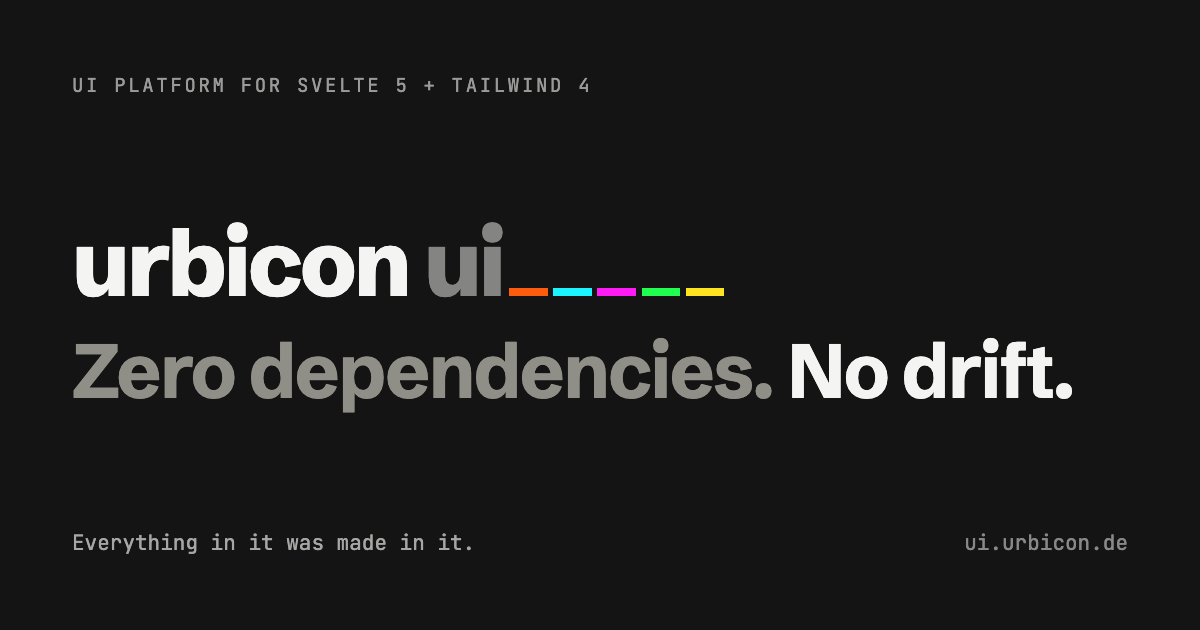
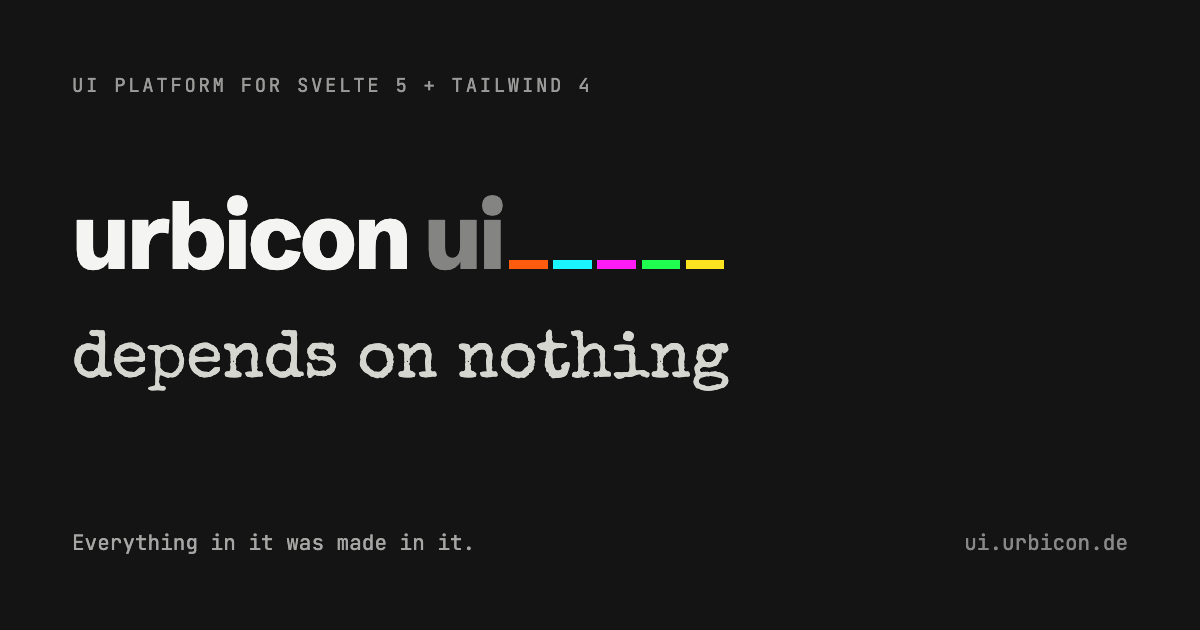
feat(docs-app): retype the landing claim as a typed remark
The name tile's claim changes words and voice: "Zero dependencies. No
drift." becomes "depends on nothing", typed in Special Elite instead of
set in the grotesk. Three typefaces on the tile, but as roles: the mono
brackets (eyebrow, proof) are the machine's meta voice, the grotesk is
the name, the typewriter is the human remark between them.

Tuning that came with it, on both surfaces (tile and og fixture):

- tone: the remark sits one step below the name (#d6d6d1), giving the
  tile a three-tone hierarchy instead of two competing whites
- size: the remark no longer spans the tile width; name:claim is ~1.4:1
  (it was 1.13:1, two equally loud lines)
- position: name + claim move from the geometric to the optical center
  (an exactly centered block reads as sunken)

The claim constants collapse into a single CLAIM; og.png and the four
README views are re-captured. New docs-app dependency:
@fontsource/special-elite (route-local import, landing + og only).

Changed region(s): [[0.0617, 0.5127, 0.8942, 0.6635], [0.0617, 0.3016, 0.6167, 0.4825]]

diff --git a/apps/docs/src/routes/+page.svelte b/apps/docs/src/routes/+page.svelte
@@ -52,7 +52,12 @@
   import { HOUSES as GROUP_HOUSES, GROUP_NAME, ROOM_TYPES } from '$lib/hotel-tools';
   import AgentReplay from '$lib/landing/AgentReplay.svelte';
   import LandingHeader from '$lib/landing/LandingHeader.svelte';
-  import { BRAND, BRAND_SUFFIX, CLAIM_LEAD, CLAIM_POINT, PROOF } from '$lib/landing/wordmark';
+  import { BRAND, BRAND_SUFFIX, CLAIM, PROOF } from '$lib/landing/wordmark';
+  // Die Schreibmaschine des Anspruchs — self-hosted wie Mono und Grotesk im
+  // Root-Layout (keine Drittanfragen, siehe /privacy), aber route-lokal
+  // importiert: außer der Namens-Kachel (und dem OG-Fixture) spricht niemand
+  // diese Schrift, also lädt sie auch nur hier.
+  import '@fontsource/special-elite/400.css';
   import { asset } from '$app/paths';
   import { REPO_URL } from '$lib/seo';
   import BookingCard from '$lib/hotel/BookingCard.svelte';
@@ -820,13 +825,14 @@
                 ></button>{/each}</span
             >
           </h1>
-          <!-- Der Anspruch trägt die Kachel: der zweite Satz ist das, was die
-               Aussage macht, also steht der erste zurück (Helligkeit, nicht
-               Farbe — die Striche bleiben die einzige Buntheit auf dieser
-               Fläche). Die erste Hälfte ist die Eintrittskarte (0 Deps hat
-               nicht nur diese Bibliothek), die zweite ist das Argument: dass
-               der Gate die Verwendung dort hält, wo sie hingehört. -->
-          <p class="claim">{CLAIM_LEAD} <strong>{CLAIM_POINT}</strong></p>
+          <!-- Der Anspruch wechselt die Stimme und tritt eine Tonstufe zurück:
+               getippt (Schreibmaschine) statt gesetzt, der menschliche Vermerk
+               zwischen den Maschinen-Klammern aus Mono (Eyebrow in der Leiste
+               darüber, Fußzeile darunter). Drei Töne tragen die Hierarchie —
+               der Name voll, der Vermerk eine Stufe darunter, die Klammern
+               gedämpft; die Striche bleiben die einzige Buntheit auf dieser
+               Fläche. -->
+          <p class="claim">{CLAIM}</p>
         </div>
         <p class="proof">{PROOF}</p>
       </div>
@@ -1655,18 +1661,24 @@
     flex-direction: column;
     gap: 2rem;
   }
-  /* Name + Anspruch sitzen mittig über der Fußzeile — die Kachel ist eine
-     Titelseite, keine Kopfzeile mit Anhang (Eyebrow: siehe LandingHeader). */
+  /* Name + Anspruch sitzen auf der OPTISCHEN Mitte, nicht der geometrischen —
+     die Kachel ist eine Titelseite, keine Kopfzeile mit Anhang (Eyebrow: siehe
+     LandingHeader). Exakt zentriert wirkte der Block gesunken; das Polster
+     hebt ihn in den oberen Bereich der Fläche und lässt die Leere unter ihm
+     als Absicht lesen (2026-08-14, gegen zwei Alternativen entschieden:
+     exakte Mitte mit Luft · Name im oberen Drittel mit abgesetztem Vermerk). */
   .name-mid {
     flex: 1;
     display: flex;
     flex-direction: column;
     justify-content: center;
+    padding-bottom: 16%;
   }
   /* Die Kachel ist 32vw breit, Name plus Signatur brauchen ~9em — mehr als
      ~2.9vw Schriftgrad passt nicht in eine Zeile, und ein Umbruch würde die
-     fünf Striche vom Namen abreißen. Der große Text dieser Kachel ist ohnehin
-     der Anspruch, nicht die Marke. */
+     fünf Striche vom Namen abreißen. Seit dem Schreibmaschinen-Vermerk ist
+     die Marke der große Text dieser Kachel; der Anspruch steht eine klare
+     Stufe darunter. */
   .brand {
     font-size: clamp(2rem, 2.9vw, 3.5rem);
     font-weight: 800;
@@ -1727,20 +1739,19 @@
     }
   }
   .claim {
-    margin-top: 1.1rem;
-    font-size: clamp(1.9rem, 3.4vw, 3.1rem);
-    font-weight: 700;
-    line-height: 1.08;
-    letter-spacing: -0.025em;
-    /* Genau breit genug für „Zero dependencies." in einer Zeile — der Umbruch
-       soll zwischen den beiden Sätzen liegen, nicht in einem von ihnen. */
-    max-width: 17ch;
-    text-wrap: balance;
-    color: #8f8f88;
-  }
-  .claim strong {
-    font-weight: inherit;
-    color: #f4f4f2;
+    margin-top: 1.75rem;
+    font-family: 'Special Elite', 'Courier New', monospace;
+    /* Bewusst NICHT auf Kachelbreite gezogen: der Vermerk endet deutlich vor
+       der Kante und bleibt gut eine Drittelstufe unter dem Namen (~1.4:1) —
+       auf gleicher Breite wären die beiden Zeilen ein Gedränge gleich lauter
+       Stimmen. Einzeilig bleibt er trotzdem (Schreibmaschine ≈0.55em/Zeichen,
+       geprüft bis 390px). */
+    font-size: clamp(1.5rem, 2.4vw, 1.9rem);
+    font-weight: 400;
+    line-height: 1.2;
+    /* Eine Tonstufe unter dem Namen (#f4f4f2) und deutlich über den 0.6-Klammern
+       — die mittlere Stimme der Kachel, auch im Ton. */
+    color: #d6d6d1;
   }
   .proof {
     font-family: 'JetBrains Mono', monospace;

diff --git a/apps/docs/src/routes/test-fixtures/og/+page.svelte b/apps/docs/src/routes/test-fixtures/og/+page.svelte
@@ -17,15 +17,11 @@
 -->
 <script lang="ts">
   import { CHANNELS, TILE_CHANNEL } from '$lib/landing/channels';
-  import {
-    BRAND,
-    BRAND_SUFFIX,
-    CLAIM_LEAD,
-    CLAIM_POINT,
-    EYEBROW,
-    PROOF
-  } from '$lib/landing/wordmark';
+  import { BRAND, BRAND_SUFFIX, CLAIM, EYEBROW, PROOF } from '$lib/landing/wordmark';
   import { SITE_URL } from '$lib/seo';
+  // Dieselbe Schreibmaschine wie auf der Namens-Kachel — route-lokal geladen,
+  // wie dort begründet (+page.svelte).
+  import '@fontsource/special-elite/400.css';
 
   const TICKS = Object.values(TILE_CHANNEL).map((name) => CHANNELS[name].solid);
   const HOST = SITE_URL.replace(/^https?:\/\//, '');
@@ -41,7 +37,7 @@
           ></span>{/each}</span
       >
     </p>
-    <p class="claim">{CLAIM_LEAD} <strong>{CLAIM_POINT}</strong></p>
+    <p class="claim">{CLAIM}</p>
   </div>
 
   <p class="foot">
@@ -86,6 +82,9 @@
     display: flex;
     flex-direction: column;
     justify-content: center;
+    /* Wie auf der Kachel: optische statt geometrischer Mitte — exakt
+       zentriert wirkte der Block gesunken. */
+    padding-bottom: 36px;
   }
   .brand {
     font-size: 92px;
@@ -109,16 +108,15 @@
     vertical-align: baseline;
   }
   .claim {
-    margin-top: 18px;
-    font-size: 76px;
-    font-weight: 700;
-    line-height: 1.08;
-    letter-spacing: -0.025em;
-    color: #8f8f88;
-  }
-  .claim strong {
-    font-weight: inherit;
-    color: #f4f4f2;
+    margin-top: 40px;
+    font-family: 'Special Elite', 'Courier New', monospace;
+    /* Wie auf der Kachel: der Vermerk bleibt eine klare Stufe unter dem Namen
+       (92px, ~1.4:1) und endet deutlich vor der Kartenkante. */
+    font-size: 66px;
+    font-weight: 400;
+    line-height: 1.2;
+    /* Wie auf der Kachel: eine Tonstufe unter dem Namen, über den Mono-Klammern. */
+    color: #d6d6d1;
   }
   .foot {
     display: flex;

diff --git a/apps/docs/src/lib/landing/wordmark.ts b/apps/docs/src/lib/landing/wordmark.ts
@@ -6,7 +6,10 @@
  * `apps/docs/static/og.png` aufgenommen wird). Bis 2026-08-04 waren es zwei
  * Kopien, und sie sind auseinandergelaufen: das Bild warb noch mit „Depends on
  * nothing." und „one package · one grammar · one gate", während die Kachel
- * schon den heutigen Anspruch trug. Aus einer Quelle gelesen kann das nicht
+ * schon den damals aktuellen Anspruch trug. (Dass der Anspruch 2026-08-14
+ * bewusst zu „depends on nothing" zurückkehrte, ändert an der Lehre nichts —
+ * die Drift lag im Auseinanderlaufen, nicht im Wortlaut.) Aus einer Quelle
+ * gelesen kann das nicht
  * mehr passieren — ein Gate, das die beiden vergleicht, braucht es dann nicht.
  */
 
@@ -17,12 +20,17 @@ export const BRAND = 'urbicon';
 export const BRAND_SUFFIX = 'ui';
 
 /**
- * Der Anspruch in zwei Hälften: die erste ist die Eintrittskarte (0 Deps hat
- * nicht nur diese Bibliothek), die zweite das Argument — also trägt nur sie
- * die volle Helligkeit.
+ * Der Anspruch, ein einzelner Satz in eigener Stimme: beide Oberflächen setzen
+ * ihn in der Schreibmaschine (Special Elite) — getippt, nicht gesetzt. Damit
+ * sprechen auf der Kachel drei Schriften, aber als Rollen, nicht als Deko:
+ * die Mono ist die Maschinen-Metastimme und klammert oben (Eyebrow) und unten
+ * (Fußzeile), die Grotesk ist der Name, die Schreibmaschine der menschliche
+ * Einwurf dazwischen. Sie trägt die Betonung, die vorher auf zwei
+ * Helligkeitsstufen verteilt war („Zero dependencies. No drift.", bis
+ * 2026-08-14). Kleinschreibung und fehlender Punkt sind Absicht: ein
+ * beiläufiger Vermerk, keine Schlagzeile.
  */
-export const CLAIM_LEAD = 'Zero dependencies.';
-export const CLAIM_POINT = 'No drift.';
+export const CLAIM = 'depends on nothing';
 
 /**
  * Die Fußzeile der Kachel. Bis 2026-08-03 stand hier „one package · one
